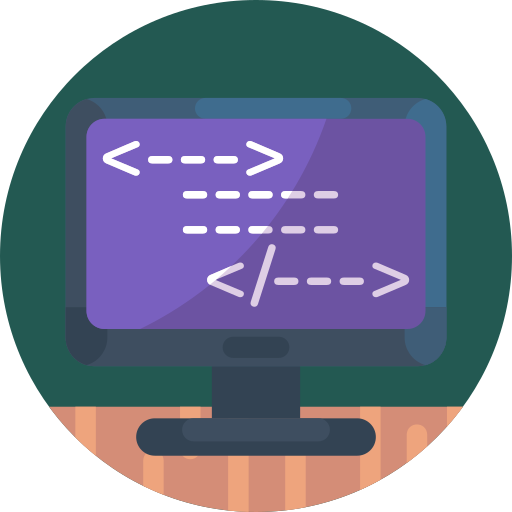
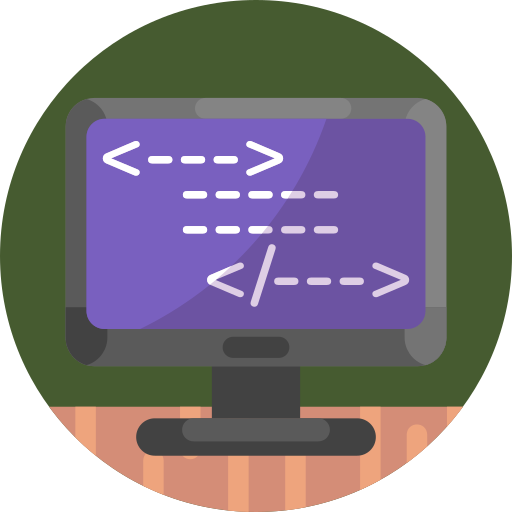
Full update

diff --git a/CSS/styles.css b/CSS/styles.css
@@ -7,20 +7,20 @@ body {
 
 h1 {
   font-family: 'Kaushan Script', cursive;
-  color: #235952;
+  color: #465b30;
   font-size: 5rem;
   margin: 10px auto 0 auto;
 }
 
 h2 {
   font-family: 'Montserrat', sans-serif;
-  color: #235952;
+  color: #465b30;
   font-size: 2rem;
 }
 
 h3 {
   font-family: 'Montserrat', sans-serif;
-  color: #235952;
+  color: #465b30;
   font-size: 1.25rem;
 }
 
@@ -35,8 +35,13 @@ hr {
 p {
     line-height: 2;
 }
+a{
+  font-family: 'Roboto', sans-serif;
+  text-decoration: none;
+}
+
 .webd {
-  color: #235952;
+  color: #465b30;
   font-size: 1.5rem;
   padding-top: 30px;
 }
@@ -57,7 +62,8 @@ p {
 }
 
 .bottom-container {
-  background-color: #235952;
+  background-color: #465b30;
+  padding-top: 30px;
 }
 
 .top-cloud {
@@ -89,13 +95,19 @@ p {
 margin: 50px auto;
 }
 
-.pc-image {
+.coding-image {
   width: 15%;
   float: left;
   margin: 20px 30px;
 }
 
 .camera-image {
+  width: 15%;
+  float: right;
+  margin: 20px 30px;
+}
+
+.pc-image {
   width: 15%;
   float: left;
   margin: 20px 30px;
@@ -111,6 +123,7 @@ margin: 50px auto;
 
 .footer-link{
   color: #ffffff;
+  margin:10px 20px;
 }
 
 .footer-notes{
@@ -123,22 +136,28 @@ margin: 50px auto;
 
 a:link{color: #ffffff;}
 a:visited{color: #ffffff;}
+a:hover{color:#ffc8bd }
 
 .contact-me{
   margin: 50px auto;
+  width:30%;
 }
 
+.copyright{
+  font-size: 0.8rem;
+  color: #FFFFFF
+}
 .profile{
   margin-bottom:50px;
 }
 
 .BUTTON_RWF {
-   background: #238E7C;
-   background-image: -webkit-linear-gradient(top, #238E7C, #235952);
-   background-image: -moz-linear-gradient(top, #238E7C, #235952);
-   background-image: -ms-linear-gradient(top, #238E7C, #235952);
-   background-image: -o-linear-gradient(top, #238E7C, #235952);
-   background-image: -webkit-gradient(to bottom, #238E7C, #235952);
+   background: #465b30;
+   background-image: -webkit-linear-gradient(top, #607c42, #465b30);
+   background-image: -moz-linear-gradient(top, #607c42, #465b30);
+   background-image: -ms-linear-gradient(top, #607c42, #465b30);
+   background-image: -o-linear-gradient(top, #607c42, #465b30);
+   background-image: -webkit-gradient(to bottom, #607c42, #465b30);
    -webkit-border-radius: 20px;
    -moz-border-radius: 20px;
    border-radius: 20px;
@@ -157,7 +176,8 @@ a:visited{color: #ffffff;}
 }
 
 .BUTTON_RWF:hover {
-   background: #235952;
+  color:#ffffff;
+   background: #465b30;
    border: solid #FFFFFF 1px;
    -webkit-border-radius: 20px;
    -moz-border-radius: 20px;
@@ -168,5 +188,6 @@ a:visited{color: #ffffff;}
 #ecfbfc
 #ffebd9
 #ffc8bd
-#235952
+#465b30
+#374625
 */

diff --git a/index.html b/index.html
@@ -62,8 +62,9 @@
 
 
   <div class="bottom-container">
+    <a class="footer-link" href="https://tylergl.github.io/cv/">HTML Site</a>
     <a class="footer-link" href="https://www.linkedin.com/in/tyler-london-3529b91b8/">LinkedIn</a>
-    <p class="footer-notes">© 2020 Tyler G. London</p>
+        <p class="copyright">© 2020 Tyler G. London</p>
     <div class="attribute-links">
       Icons made by
       <a href="https://www.flaticon.com/authors/good-ware">Good Ware</a>
